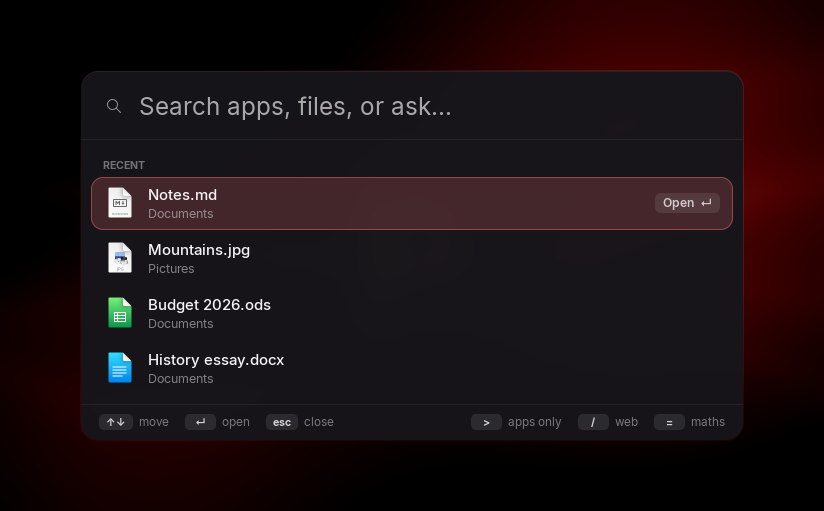
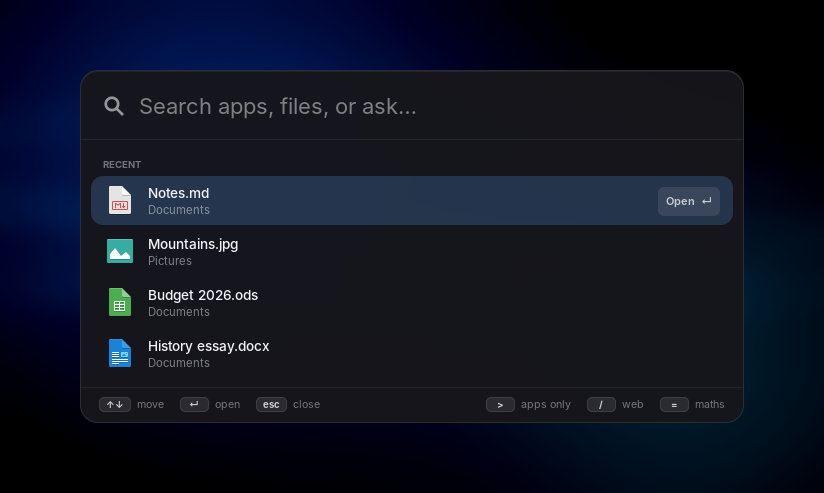
Seamless desktop: windows float like a Mac or Windows, a calmer look, games tear-free with VRR
From the design review (Jobs / Torvalds / Gates panel):

- Window layout: new windows float and open centred by default (Free);
  Settings → Appearance → Window layout → Tidy tiles them, as before.
  window_layout is a toolbox setting (logged, undoable); prime-theme writes
  the rules into the theme file Hyprland reads first, and undo regenerates
  it. Spotlight understands "tidy windows" / "stop tiling windows".
- Windows are solid: no more see-through unfocused windows (opacity 1.0);
  blur passes 3 → 2 (same look, less GPU, better battery).
- Games: allow_tearing on (the existing 'immediate' rule was inert without
  it) and adaptive sync (vrr = 2: fullscreen games and video).
- Calmer default: Tide wallpaper and Sapphire accent instead of red-on-red
  (no more P on the wallpaper behind the P on the lock screen). Every
  existing choice stays available.
- One highlight everywhere: a solid accent fill (no outline) in Start,
  Spotlight and the rofi menus; the menu breadcrumb reads "Prime ›" so it
  can't be mistaken for typed text.
- The bar drops the always-on CPU / memory / GPU percentages (Activity is
  one click away in Start).
- Previews regenerated on the new default (bar.png unchanged: rendering it
  needs a Wayland compositor).

Claude-Session: https://claude.ai/code/session_01EnExSgUZ63gYHV381ujASp

diff --git a/docs/USER-GUIDE.md b/docs/USER-GUIDE.md
@@ -147,7 +147,10 @@ Everything in this guide is also in the Prime menu, so you never *need* a termin
 - Mouse, keyboard, look and the other saved settings can be undone: About & Help → **Undo the last change made here**.
 
 ### Windows and workspaces
-- Windows arrange themselves side by side. **Super+F** makes one fill the screen.
+- New windows float and open in the middle of the screen, like on a Mac or Windows.
+  Drag one by its title bar; **Super+F** makes it fill the screen.
+- Prefer them side by side? Settings → Appearance → **Window layout → Tidy** (or type
+  "tidy windows" in Super+Space). **Super+Shift+V** flips one window either way.
 - **Super+1 … Super+9** switch between workspaces (separate desktops).
   **Super+Shift+1…9** moves the current window there.
 - **Alt+Tab** switches windows. On a touchpad, swipe sideways with three fingers
